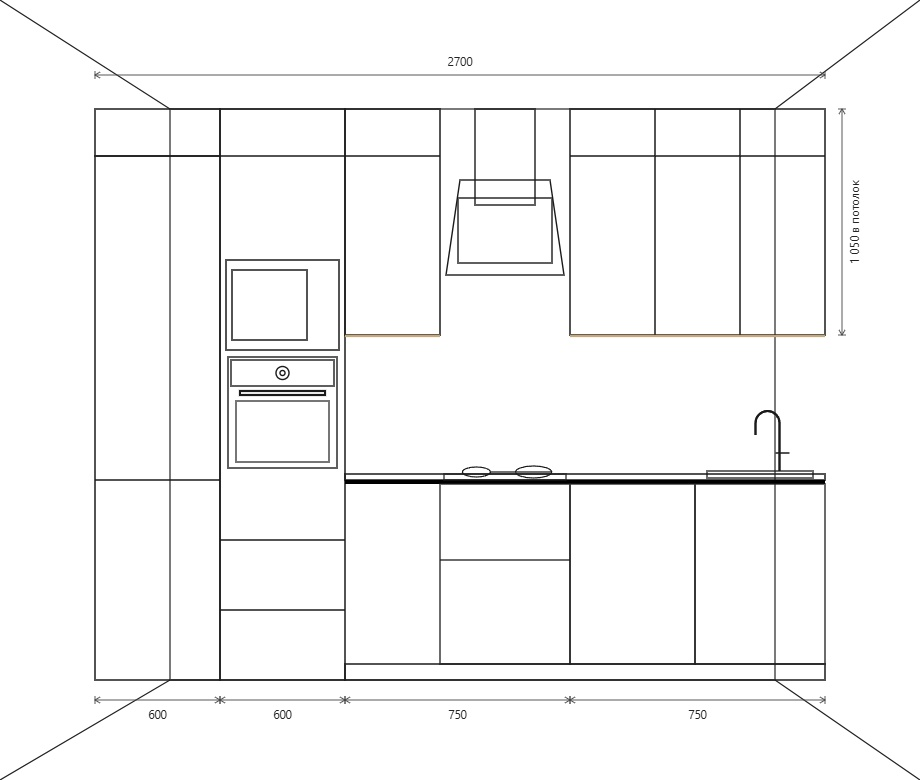
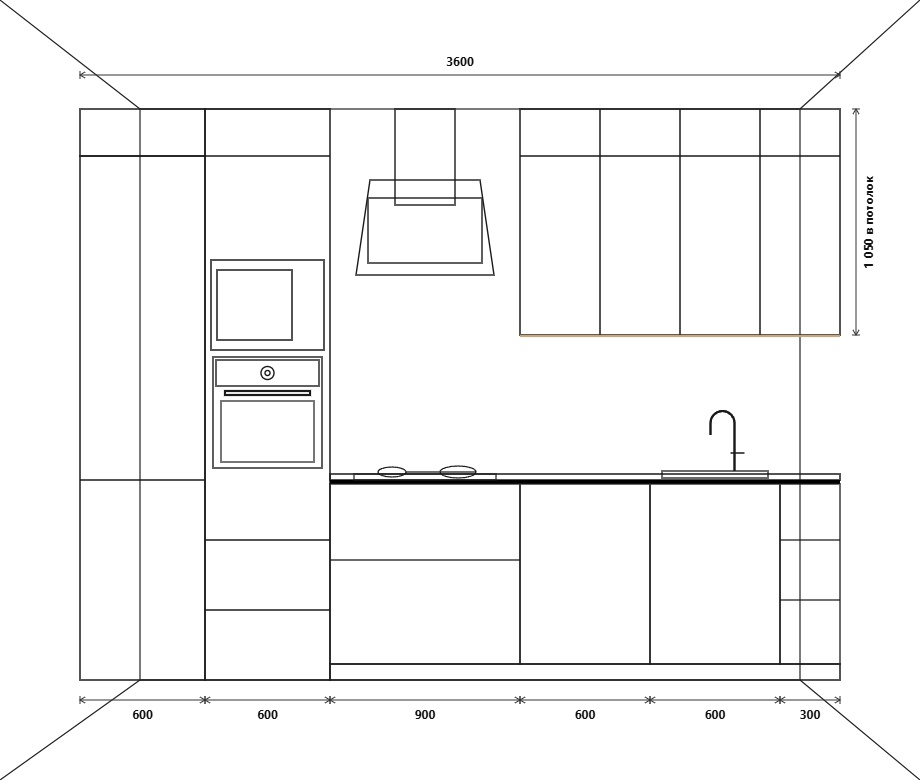
fix: accurate CAD schemes dimensions across all tiers and eliminate image loading clip-path bug on scroll

diff --git a/index.html b/index.html
@@ -1132,20 +1132,22 @@ p,.lead,.hero__sub,.st__c,.cd__d{
   filter:blur(0);
 }
 
-/* Image reveal with scale clipping (Pattern B from Creative Motion Engine) */
+/* Image reveal with smooth lift and scale */
 .ir{
   position:relative;
   overflow:hidden;
-  clip-path:inset(0 0 100% 0);
-  transition:clip-path 1.25s cubic-bezier(.16, 1, .3, 1);
+  opacity:0;
+  transform:translateY(22px);
+  transition:opacity 0.85s var(--e-rev), transform 0.95s var(--e-rev);
   transition-delay:var(--d, 0s);
 }
 .ir.in{
-  clip-path:inset(0 0 0 0);
+  opacity:1;
+  transform:none;
 }
 .ir img{
-  transform:scale(1.15);
-  transition:transform 1.6s cubic-bezier(.16, 1, .3, 1), filter 1s ease;
+  transform:scale(1.06);
+  transition:transform 1.4s cubic-bezier(.16, 1, .3, 1), filter 1s ease;
   will-change:transform;
 }
 .ir.in img{
@@ -1549,8 +1551,8 @@ p,.lead,.hero__sub,.st__c,.cd__d{
             <span class="kp-slide-zoom"><svg width="12" height="12" viewBox="0 0 24 24" fill="none" stroke="currentColor" stroke-width="2"><circle cx="11" cy="11" r="8"/><path d="m21 21-4.3-4.3"/><path d="M11 8v6M8 11h6"/></svg> Увеличить</span>
           </div>
           <div class="kp-slide" data-tier="0" data-view="scheme">
-            <img src="images/p1_scheme_standard.webp" alt="Чертёж и размеры кухни 1 «Стандарт» — 2 700 мм" loading="lazy">
-            <span class="kp-slide-tag">📐 Чертёж «Стандарт» · 2 700 мм</span>
+            <img src="images/p1_scheme_standard.webp" alt="Чертёж и размеры кухни 1 «Стандарт» — 2 850 мм" loading="lazy">
+            <span class="kp-slide-tag">📐 Чертёж «Стандарт» · 2 850 мм</span>
             <span class="kp-slide-zoom"><svg width="12" height="12" viewBox="0 0 24 24" fill="none" stroke="currentColor" stroke-width="2"><circle cx="11" cy="11" r="8"/><path d="m21 21-4.3-4.3"/><path d="M11 8v6M8 11h6"/></svg> Чертёж с размерами</span>
           </div>
 
@@ -1573,8 +1575,8 @@ p,.lead,.hero__sub,.st__c,.cd__d{
             <span class="kp-slide-zoom"><svg width="12" height="12" viewBox="0 0 24 24" fill="none" stroke="currentColor" stroke-width="2"><circle cx="11" cy="11" r="8"/><path d="m21 21-4.3-4.3"/><path d="M11 8v6M8 11h6"/></svg> Увеличить</span>
           </div>
           <div class="kp-slide" data-tier="2" data-view="scheme">
-            <img src="images/p1_scheme_premium.webp" alt="Чертёж и размеры кухни 1 «Премиум» — 2 700 мм" loading="lazy">
-            <span class="kp-slide-tag">📐 Чертёж «Премиум» · 2 700 мм</span>
+            <img src="images/p1_scheme_premium.webp" alt="Чертёж и размеры кухни 1 «Премиум» — 3 600 мм" loading="lazy">
+            <span class="kp-slide-tag">📐 Чертёж «Премиум» · 3 600 мм</span>
             <span class="kp-slide-zoom"><svg width="12" height="12" viewBox="0 0 24 24" fill="none" stroke="currentColor" stroke-width="2"><circle cx="11" cy="11" r="8"/><path d="m21 21-4.3-4.3"/><path d="M11 8v6M8 11h6"/></svg> Чертёж с размерами</span>
           </div>
 
@@ -1640,8 +1642,8 @@ p,.lead,.hero__sub,.st__c,.cd__d{
             <span class="kp-slide-zoom"><svg width="12" height="12" viewBox="0 0 24 24" fill="none" stroke="currentColor" stroke-width="2"><circle cx="11" cy="11" r="8"/><path d="m21 21-4.3-4.3"/><path d="M11 8v6M8 11h6"/></svg> Увеличить</span>
           </div>
           <div class="kp-slide" data-tier="0" data-view="scheme">
-            <img src="images/p2_scheme_standard.webp" alt="Чертёж и размеры кухни 2 «Стандарт» — 2 700 мм" loading="lazy">
-            <span class="kp-slide-tag">📐 Чертёж «Стандарт» · 2 700 мм</span>
+            <img src="images/p2_scheme_standard.webp" alt="Чертёж и размеры кухни 2 «Стандарт» — 3 200 мм" loading="lazy">
+            <span class="kp-slide-tag">📐 Чертёж «Стандарт» · 3 200 мм</span>
             <span class="kp-slide-zoom"><svg width="12" height="12" viewBox="0 0 24 24" fill="none" stroke="currentColor" stroke-width="2"><circle cx="11" cy="11" r="8"/><path d="m21 21-4.3-4.3"/><path d="M11 8v6M8 11h6"/></svg> Чертёж с размерами</span>
           </div>
 
@@ -1664,8 +1666,8 @@ p,.lead,.hero__sub,.st__c,.cd__d{
             <span class="kp-slide-zoom"><svg width="12" height="12" viewBox="0 0 24 24" fill="none" stroke="currentColor" stroke-width="2"><circle cx="11" cy="11" r="8"/><path d="m21 21-4.3-4.3"/><path d="M11 8v6M8 11h6"/></svg> Увеличить</span>
           </div>
           <div class="kp-slide" data-tier="2" data-view="scheme">
-            <img src="images/p2_scheme_premium.webp" alt="Чертёж и размеры кухни 2 «Премиум» — 2 700 мм" loading="lazy">
-            <span class="kp-slide-tag">📐 Чертёж «Премиум» · 2 700 мм</span>
+            <img src="images/p2_scheme_premium.webp" alt="Чертёж и размеры кухни 2 «Премиум» — 3 600 мм" loading="lazy">
+            <span class="kp-slide-tag">📐 Чертёж «Премиум» · 3 600 мм</span>
             <span class="kp-slide-zoom"><svg width="12" height="12" viewBox="0 0 24 24" fill="none" stroke="currentColor" stroke-width="2"><circle cx="11" cy="11" r="8"/><path d="m21 21-4.3-4.3"/><path d="M11 8v6M8 11h6"/></svg> Чертёж с размерами</span>
           </div>
 
@@ -2569,16 +2571,27 @@ function money(n){return fmt(n)+NB+"\u20BD";}
         io.unobserve(e.target);
       }
     });
-  },{rootMargin:"0px 0px -40px 0px", threshold:0.04});
+  },{rootMargin:"150px 0px 150px 0px", threshold:0.01});
   items.forEach(function(el){ io.observe(el); });
 
-  /* Only reveal items visible above the fold on initial page load */
-  setTimeout(function(){
+  /* Reliable reveal check to ensure images and cards reveal smoothly without requiring a reload */
+  function revealCheck(){
+    var vh = W.innerHeight || 800;
     items.forEach(function(el){
-      var r=el.getBoundingClientRect();
-      if(r.top < W.innerHeight && r.bottom > 0) el.classList.add("in");
+      if(!el.classList.contains("in")){
+        var r=el.getBoundingClientRect();
+        if(r.top < vh + 160 && r.bottom > -160){
+          el.classList.add("in");
+        }
+      }
     });
-  }, 250);
+  }
+  revealCheck();
+  setTimeout(revealCheck, 150);
+  setTimeout(revealCheck, 600);
+  setTimeout(revealCheck, 1500);
+  W.addEventListener("scroll", revealCheck, {passive:true});
+  W.addEventListener("resize", revealCheck, {passive:true});
 })();
 
 /* ---------- 3. header ---------- */
@@ -2741,9 +2754,30 @@ function money(n){return fmt(n)+NB+"\u20BD";}
 
 /* ---------- 7. kitchen prices sliders & interactive actions ---------- */
 (function(){
+  var cardSpecs = {
+    'kpCard1': {
+      lens: ['Длина 2,85 м.п.', 'Длина 2,7 м.п.', 'Длина 3,6 м.п.'],
+      quizParams: [
+        { shape: 'Прямая', fridge: 'Отдельный', hood: 'Наклонная', len: '285' },
+        { shape: 'Прямая', fridge: 'Отдельный', hood: 'Наклонная', len: '270' },
+        { shape: 'Прямая', fridge: 'Отдельный', hood: 'Наклонная', len: '360' }
+      ]
+    },
+    'kpCard2': {
+      lens: ['Длина 3,2 м.п. (пеналы)', 'Длина 2,7 м.п. (пеналы)', 'Длина 3,6 м.п. (пеналы)'],
+      quizParams: [
+        { shape: 'Прямая', fridge: 'Встроенный в пенал', hood: 'Встроенная в шкаф', len: '320' },
+        { shape: 'Прямая', fridge: 'Встроенный в пенал', hood: 'Встроенная в шкаф', len: '270' },
+        { shape: 'Прямая', fridge: 'Встроенный в пенал', hood: 'Встроенная в шкаф', len: '360' }
+      ]
+    }
+  };
+
   ['kpCard1', 'kpCard2'].forEach(function(cardId){
     var card = $('#' + cardId);
     if(!card) return;
+    var spec = cardSpecs[cardId];
+    var lenBadge = $('.kp-card__len', card);
     var slides = $$('.kp-slide', card);
     var viewTabs = $$('.kp-view-tab', card);
     var tierBtns = $$('.kp-tier', card);
@@ -2768,8 +2802,15 @@ function money(n){return fmt(n)+NB+"\u20BD";}
         var t = parseInt(tb.getAttribute('data-tier-idx'), 10);
         tb.classList.toggle('active', t === curTier);
       });
-      if(ctaBtn){
+      if(lenBadge && spec && spec.lens[curTier]){
+        lenBadge.textContent = spec.lens[curTier];
+      }
+      if(ctaBtn && spec && spec.quizParams[curTier]){
+        var qp = spec.quizParams[curTier];
         ctaBtn.innerHTML = 'Рассчитать кухню «' + tierNames[curTier] + '» <span class="ar">&rarr;</span>';
+        ctaBtn.onclick = function(){
+          prefillKitchenQuiz(qp.shape, qp.fridge, qp.hood, qp.len);
+        };
       }
     }
 
